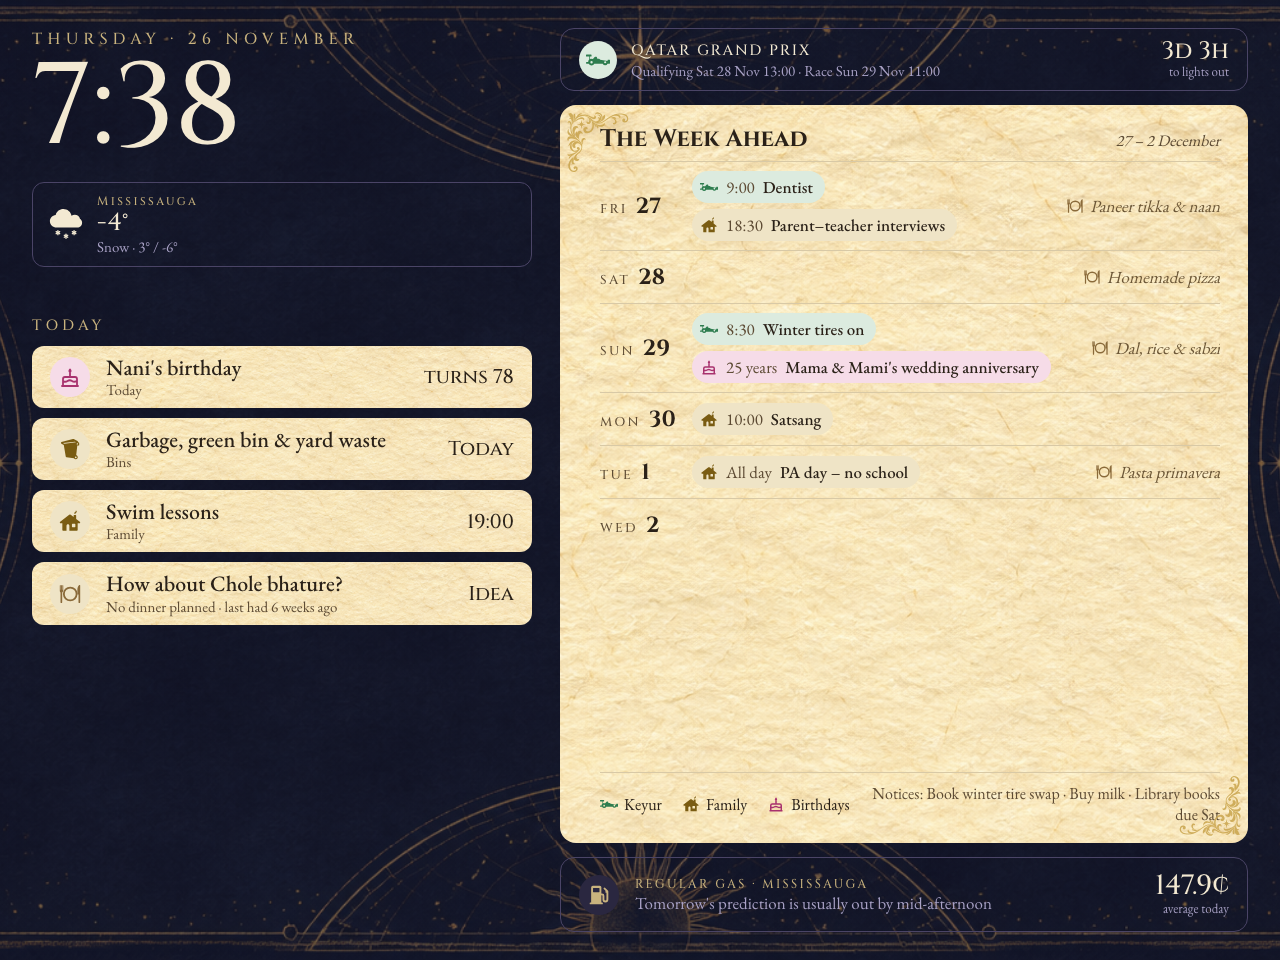
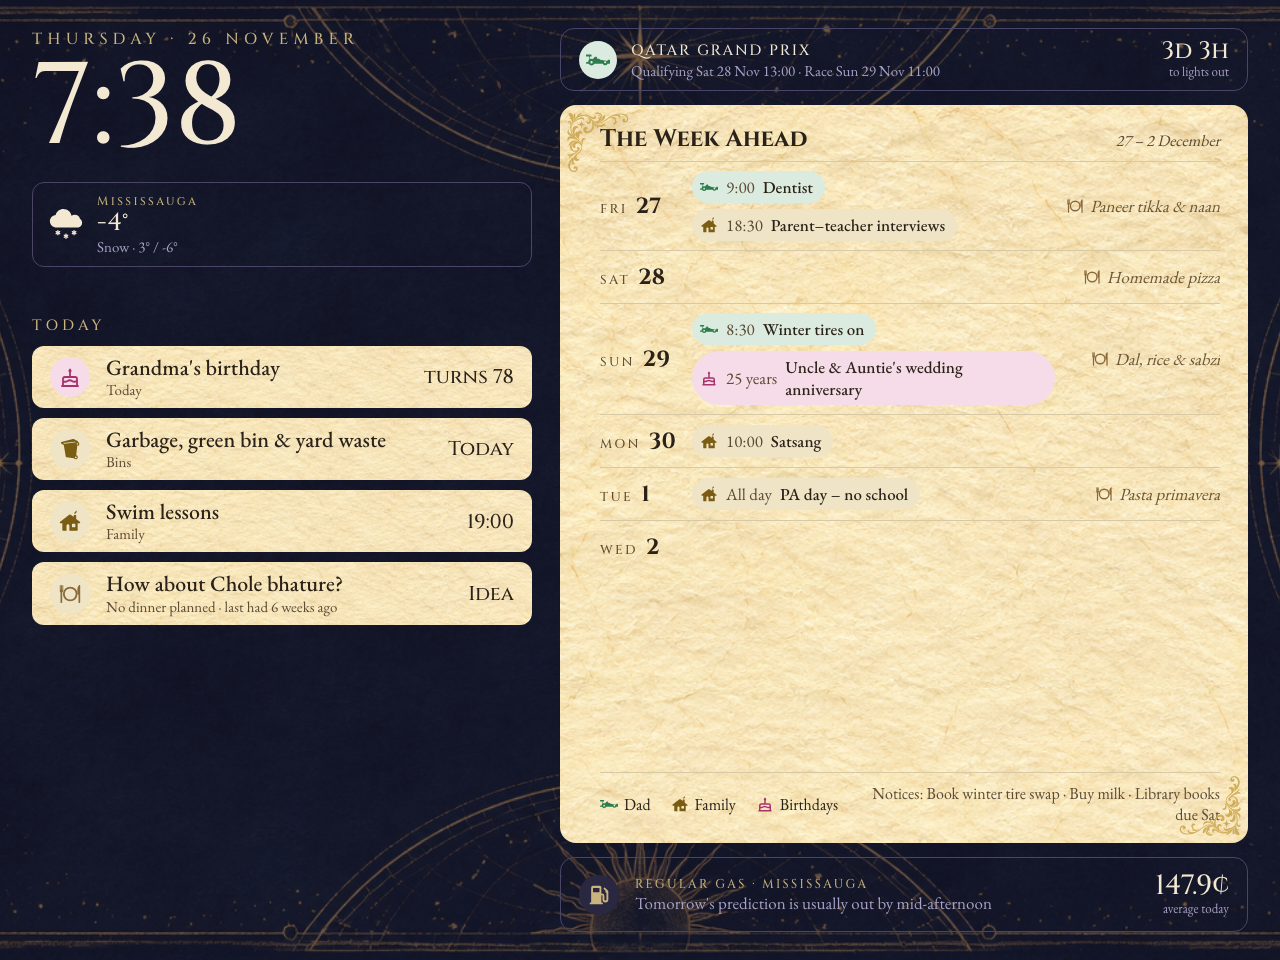
Make the repo safe to publish: calendar by name, neutral names
- Birthday calendar referenced by name instead of its ID
- 'Dad' instead of a real name in Config.gs; README describes 'a family in the GTA'
- Screenshots retaken with neutral sample names

diff --git a/README.md b/README.md
@@ -2,7 +2,7 @@
 
 # 🏡 Family Dashboard
 
-**An always-on kitchen board for our family in Mississauga, running on an old iPad.**
+**An always-on kitchen board for a family in the GTA, running on an old iPad.**
 
 Calendars, birthdays, bins, gas prices, dinners and the F1 countdown, all in one place.<br>
 Free to run: no subscriptions, no home server, no app store.
@@ -23,8 +23,8 @@ Free to run: no subscriptions, no home server, no app store.
 | | |
 |---|---|
 | 🕰 **Clock, date & weather** | Big serif clock, Mississauga weather, and a frost warning on cold mornings. |
-| 📅 **Today & the week ahead** | Pulled from the **Family** calendar (and Keyur's own), colour-coded per person. |
-| 🎂 **Birthdays & anniversaries** | From the *Birthdays and Anniversaries* calendar, with ages worked out from the year: "Nani's birthday · turns 78". |
+| 📅 **Today & the week ahead** | Pulled from the shared **Family** calendar (and a parent's own), colour-coded per person. |
+| 🎂 **Birthdays & anniversaries** | From the *Birthdays and Anniversaries* calendar, with ages worked out from the year: "Grandma's birthday · turns 78". |
 | 🗑 **Bins** | Thursday pickups: green bin weekly, garbage and recycling on alternating weeks, yard waste in season. "Bins out tonight" from 5pm the night before. |
 | ⛽ **Gas prices** | Today's Mississauga average and **tomorrow's predicted price** from [Gas Wizard](https://gaswizard.ca), with plain advice: *"Up 3¢ tomorrow · fill up today"*. |
 | 🍛 **Dinners** | From the family **meal tracker**. Nothing planned tonight? It suggests a favourite you haven't had in a while: *"How about chole bhature? Last had 6 weeks ago."* |
@@ -98,7 +98,7 @@ Handy checks in the Apps Script editor: `testEverything`, `testCalendars`, `test
 ```js
 TIMEZONE: 'America/Toronto',
 FAMILY_CALENDAR: 'Family',
-BIRTHDAY_CALENDAR: '…@group.calendar.google.com',   // Birthdays and Anniversaries
+BIRTHDAY_CALENDAR: 'Birthdays and Anniversaries',
 PLACES: [{ name: 'Mississauga', lat: 43.5890, lon: -79.6441 }],
 
 BIN_DAY: 4,                          // Thursday
